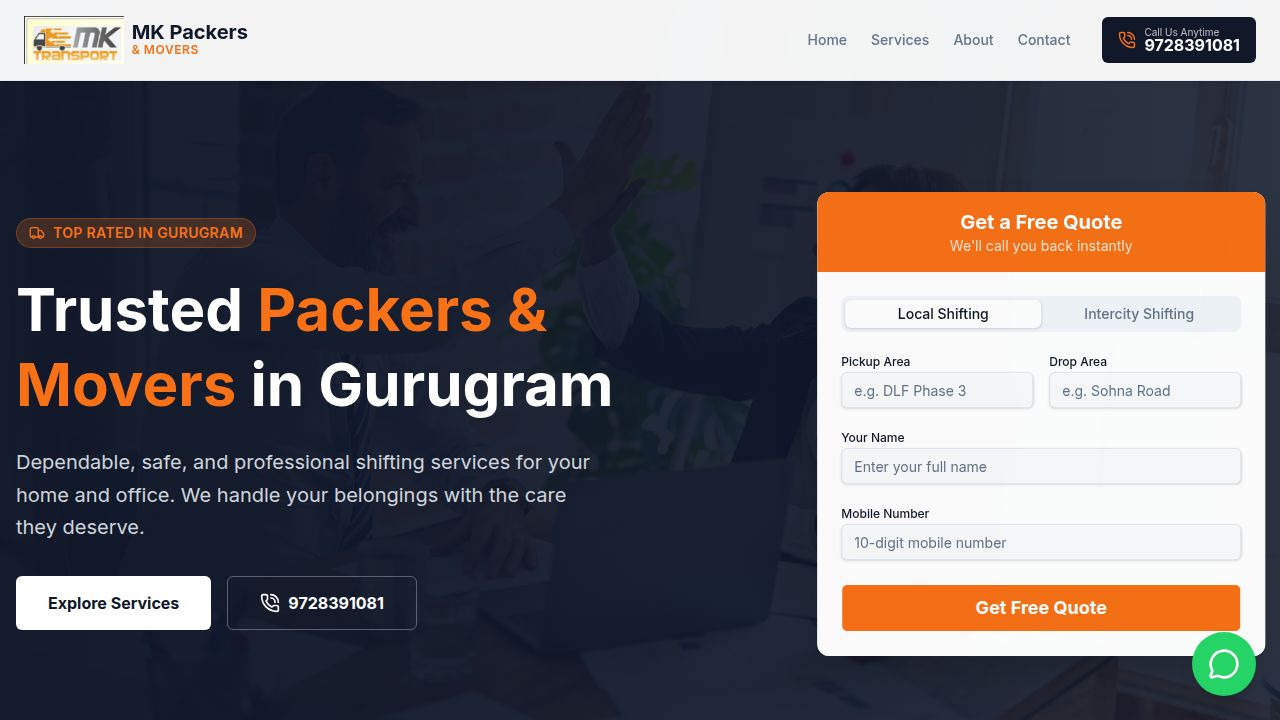
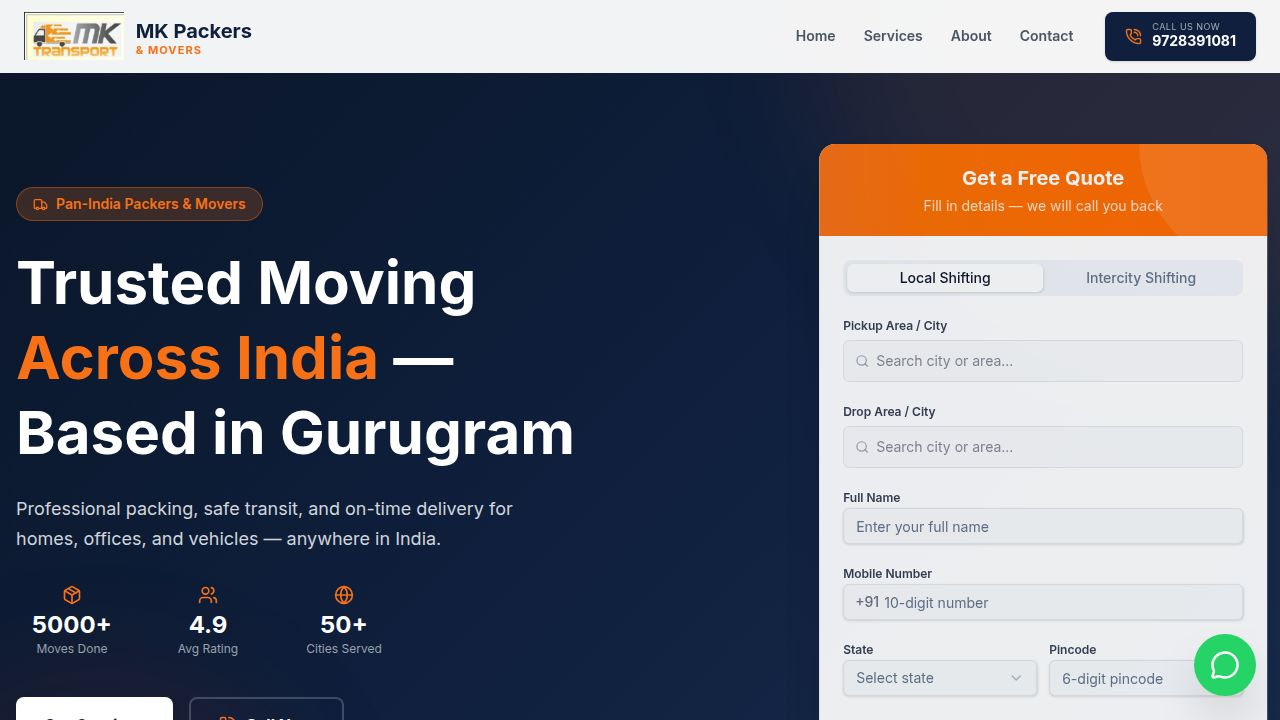
Remove OTP verification and directly connect users to WhatsApp for inquiries
Removes the OTP verification flow, deleting the `otp.ts` route, unlinking it from `index.ts`, and modifying `App.tsx` to directly redirect form submissions to WhatsApp.

Replit-Commit-Author: Agent
Replit-Commit-Session-Id: 0a519943-d69b-457d-bdc2-b5396582348d
Replit-Commit-Checkpoint-Type: full_checkpoint
Replit-Commit-Event-Id: 81ed4b70-af5d-4b1a-b089-18c279e04d00
Replit-Commit-Screenshot-Url: https://storage.googleapis.com/screenshot-production-us-central1/c387cc0e-73b9-4d16-9917-0f5cdf0bb79e/0a519943-d69b-457d-bdc2-b5396582348d/K7hvI2m
Replit-Helium-Checkpoint-Created: true

diff --git a/artifacts/mk-packers/src/App.tsx b/artifacts/mk-packers/src/App.tsx
@@ -2,7 +2,6 @@ import { useState, useRef, useEffect } from "react";
 import { Switch, Route, Router as WouterRouter } from "wouter";
 import { QueryClient, QueryClientProvider } from "@tanstack/react-query";
 import { Toaster } from "@/components/ui/toaster";
-import { useToast } from "@/hooks/use-toast";
 import { TooltipProvider } from "@/components/ui/tooltip";
 import NotFound from "@/pages/not-found";
 import { motion, AnimatePresence } from "framer-motion";
@@ -311,12 +310,8 @@ const Navbar = () => {
 };
 
 function BookingForm() {
-  const { toast } = useToast();
-  const [step, setStep] = useState<"form" | "otp" | "success">("form");
-  const [otp, setOtp] = useState("");
-  const [isSending, setIsSending] = useState(false);
-  const [isVerifying, setIsVerifying] = useState(false);
-  const [submittedValues, setSubmittedValues] = useState<FormValues | null>(null);
+  const [step, setStep] = useState<"form" | "success">("form");
+  const [isSubmitting, setIsSubmitting] = useState(false);
 
   const form = useForm<FormValues>({
     resolver: zodResolver(formSchema),
@@ -331,86 +326,22 @@ function BookingForm() {
     },
   });
 
-  const onSubmit = async (values: FormValues) => {
-    setIsSending(true);
-    try {
-      const res = await fetch("/api/otp/send", {
-        method: "POST",
-        headers: { "Content-Type": "application/json" },
-        body: JSON.stringify({ mobile: values.mobile }),
-      });
-      const data = (await res.json()) as { success: boolean; message: string };
-      if (!data.success) {
-        toast({ title: "Error", description: data.message, variant: "destructive" });
-        return;
-      }
-      setSubmittedValues(values);
-      setStep("otp");
-      toast({ title: "OTP Sent!", description: `A 6-digit OTP has been sent to ${values.mobile}` });
-    } catch {
-      toast({ title: "Network error", description: "Could not connect. Please try again.", variant: "destructive" });
-    } finally {
-      setIsSending(false);
-    }
-  };
-
-  const handleVerifyOtp = async () => {
-    if (!submittedValues) return;
-    if (otp.length !== 6) {
-      toast({ title: "Invalid OTP", description: "Please enter the 6-digit OTP", variant: "destructive" });
-      return;
-    }
-    setIsVerifying(true);
-    try {
-      const res = await fetch("/api/otp/verify", {
-        method: "POST",
-        headers: { "Content-Type": "application/json" },
-        body: JSON.stringify({ mobile: submittedValues.mobile, otp }),
-      });
-      const data = (await res.json()) as { success: boolean; message: string };
-      if (!data.success) {
-        toast({ title: "OTP Failed", description: data.message, variant: "destructive" });
-        return;
-      }
-      const v = submittedValues;
-      const msg =
-        `Hello MK Packers & Movers!%0A%0AI want to book a shifting service.%0A%0A` +
-        `*Shift Type:* ${v.type === "local" ? "Local Shifting" : "Intercity Shifting"}%0A` +
-        `*Pickup Area:* ${v.pickup}%0A` +
-        `*Drop Area:* ${v.drop}%0A` +
-        `*Name:* ${v.name}%0A` +
-        `*Mobile:* ${v.mobile}%0A` +
-        `*State:* ${v.state}%0A` +
-        `*Pincode:* ${v.pincode}%0A%0A` +
-        `Please provide me a free quote. Thank you!`;
-      window.open(`https://wa.me/919728391081?text=${msg}`, "_blank");
-      setStep("success");
-    } catch {
-      toast({ title: "Error", description: "Verification failed. Please try again.", variant: "destructive" });
-    } finally {
-      setIsVerifying(false);
-    }
-  };
-
-  const handleResend = async () => {
-    if (!submittedValues) return;
-    setIsSending(true);
-    setOtp("");
-    try {
-      const res = await fetch("/api/otp/send", {
-        method: "POST",
-        headers: { "Content-Type": "application/json" },
-        body: JSON.stringify({ mobile: submittedValues.mobile }),
-      });
-      const data = (await res.json()) as { success: boolean; message: string };
-      if (data.success) {
-        toast({ title: "OTP Resent!", description: "New OTP has been sent to your mobile." });
-      }
-    } catch {
-      toast({ title: "Error", description: "Could not resend OTP.", variant: "destructive" });
-    } finally {
-      setIsSending(false);
-    }
+  const onSubmit = (values: FormValues) => {
+    setIsSubmitting(true);
+    const v = values;
+    const msg =
+      `Hello MK Packers & Movers!%0A%0AI want to book a shifting service.%0A%0A` +
+      `*Shift Type:* ${v.type === "local" ? "Local Shifting" : "Intercity Shifting"}%0A` +
+      `*Pickup Area:* ${v.pickup}%0A` +
+      `*Drop Area:* ${v.drop}%0A` +
+      `*Name:* ${v.name}%0A` +
+      `*Mobile:* ${v.mobile}%0A` +
+      `*State:* ${v.state}%0A` +
+      `*Pincode:* ${v.pincode}%0A%0A` +
+      `Please provide me a free quote. Thank you!`;
+    window.open(`https://wa.me/919728391081?text=${msg}`, "_blank");
+    setStep("success");
+    setIsSubmitting(false);
   };
 
   return (
@@ -566,72 +497,14 @@ function BookingForm() {
                   <Button
                     type="submit"
                     data-testid="button-get-quote"
-                    disabled={isSending}
+                    disabled={isSubmitting}
                     className="w-full font-bold text-base h-12 mt-1 bg-primary hover:bg-orange-600 transition-all shadow-md hover:shadow-orange-200 hover:shadow-lg"
                   >
-                    {isSending ? "Sending OTP..." : "Get Free Quote"}
-                    {!isSending && <ArrowRight size={18} className="ml-2" />}
+                    {isSubmitting ? "Opening WhatsApp..." : "Get Free Quote on WhatsApp"}
+                    {!isSubmitting && <ArrowRight size={18} className="ml-2" />}
                   </Button>
                 </form>
               </Form>
-            </motion.div>
-          )}
-
-          {step === "otp" && submittedValues && (
-            <motion.div
-              key="otp"
-              initial={{ opacity: 0, x: 20 }}
-              animate={{ opacity: 1, x: 0 }}
-              exit={{ opacity: 0, x: -20 }}
-              className="space-y-6"
-            >
-              <div className="text-center">
-                <div className="w-16 h-16 bg-orange-50 rounded-full flex items-center justify-center mx-auto mb-4">
-                  <PhoneCall size={28} className="text-primary" />
-                </div>
-                <h4 className="text-lg font-bold text-[#0f1f3d]">Verify Your Number</h4>
-                <p className="text-sm text-gray-500 mt-1">
-                  OTP sent to <span className="font-semibold text-[#0f1f3d]">+91 {submittedValues.mobile}</span>
-                </p>
-              </div>
-
-              <div className="space-y-3">
-                <label className="text-xs font-semibold text-gray-700 block">Enter 6-Digit OTP</label>
-                <Input
-                  type="tel"
-                  maxLength={6}
-                  placeholder="Enter OTP here"
-                  value={otp}
-                  onChange={(e) => setOtp(e.target.value.replace(/\D/g, ""))}
-                  data-testid="input-otp"
-                  className="text-center text-2xl tracking-[0.5em] font-bold border-2 border-gray-200 focus:border-primary h-14 bg-gray-50"
-                />
-              </div>
-
-              <Button
-                onClick={handleVerifyOtp}
-                disabled={isVerifying || otp.length !== 6}
-                data-testid="button-verify-otp"
-                className="w-full font-bold h-12 bg-primary hover:bg-orange-600 shadow-md"
-              >
-                {isVerifying ? "Verifying..." : "Verify & Continue to WhatsApp"}
-              </Button>
-
-              <div className="flex items-center justify-between text-sm">
-                <button
-                  onClick={() => { setStep("form"); setOtp(""); }}
-                  className="text-gray-500 hover:text-[#0f1f3d] transition-colors"
-                >
-                  Edit Details
-                </button>
-                <button
-                  onClick={handleResend}
-                  disabled={isSending}
-                  className="text-primary hover:text-orange-600 font-semibold transition-colors"
-                >
-                  {isSending ? "Sending..." : "Resend OTP"}
-                </button>
-              </div>
             </motion.div>
           )}
 
@@ -659,7 +532,7 @@ function BookingForm() {
                 Open WhatsApp Chat
               </a>
               <button
-                onClick={() => { setStep("form"); setOtp(""); form.reset(); }}
+                onClick={() => { setStep("form"); form.reset(); }}
                 className="block w-full text-sm text-gray-400 hover:text-gray-600 mt-2"
               >
                 Submit another request
@@ -917,7 +790,7 @@ const Services = () => {
 const Process = () => {
   const steps = [
     { num: "01", title: "Fill your details", desc: "Submit your move info — pickup, drop, name, number via our quick form." },
-    { num: "02", title: "Verify with OTP", desc: "Confirm your mobile with a one-time password for security." },
+    { num: "02", title: "WhatsApp Connect", desc: "Your details are sent directly to our team via WhatsApp for instant response." },
     { num: "03", title: "Get your free quote", desc: "Our team reviews and calls you back with a transparent estimate." },
     { num: "04", title: "Sit back & relax", desc: "We pack, move, and deliver your belongings safely and on time." },
   ];
@@ -1095,7 +968,7 @@ const FAQ = () => {
     { q: "How is the shifting cost calculated?", a: "Cost depends on the volume of goods, distance, packing materials, and floor access. We always provide a transparent, itemized estimate before confirming the booking." },
     { q: "Do you provide packing materials?", a: "Yes. We bring all necessary materials — bubble wrap, corrugated boxes, shrink wrap, foam padding, and tape — included in the service." },
     { q: "How much time does local shifting take?", a: "For a standard 2BHK in Gurugram, packing and loading takes 3–4 hours, unloading and unpacking another 2–3 hours. The full process is usually completed in a single day." },
-    { q: "Why do you ask for OTP verification?", a: "OTP verification confirms your mobile number is valid and ensures your booking request reaches our team securely, so we can call you back without delay." },
+    { q: "How quickly will your team respond?", a: "As soon as you submit the form, your details are sent to our WhatsApp. Our team typically responds within 30 minutes during business hours (9 AM – 8 PM)." },
     { q: "Can I track my shipment?", a: "Yes, our team provides regular updates via phone and WhatsApp throughout the transit so you always know where your belongings are." },
   ];
 

diff --git a/artifacts/api-server/src/routes/index.ts b/artifacts/api-server/src/routes/index.ts
@@ -1,10 +1,8 @@
 import { Router, type IRouter } from "express";
 import healthRouter from "./health";
-import otpRouter from "./otp";
 
 const router: IRouter = Router();
 
 router.use(healthRouter);
-router.use(otpRouter);
 
 export default router;
